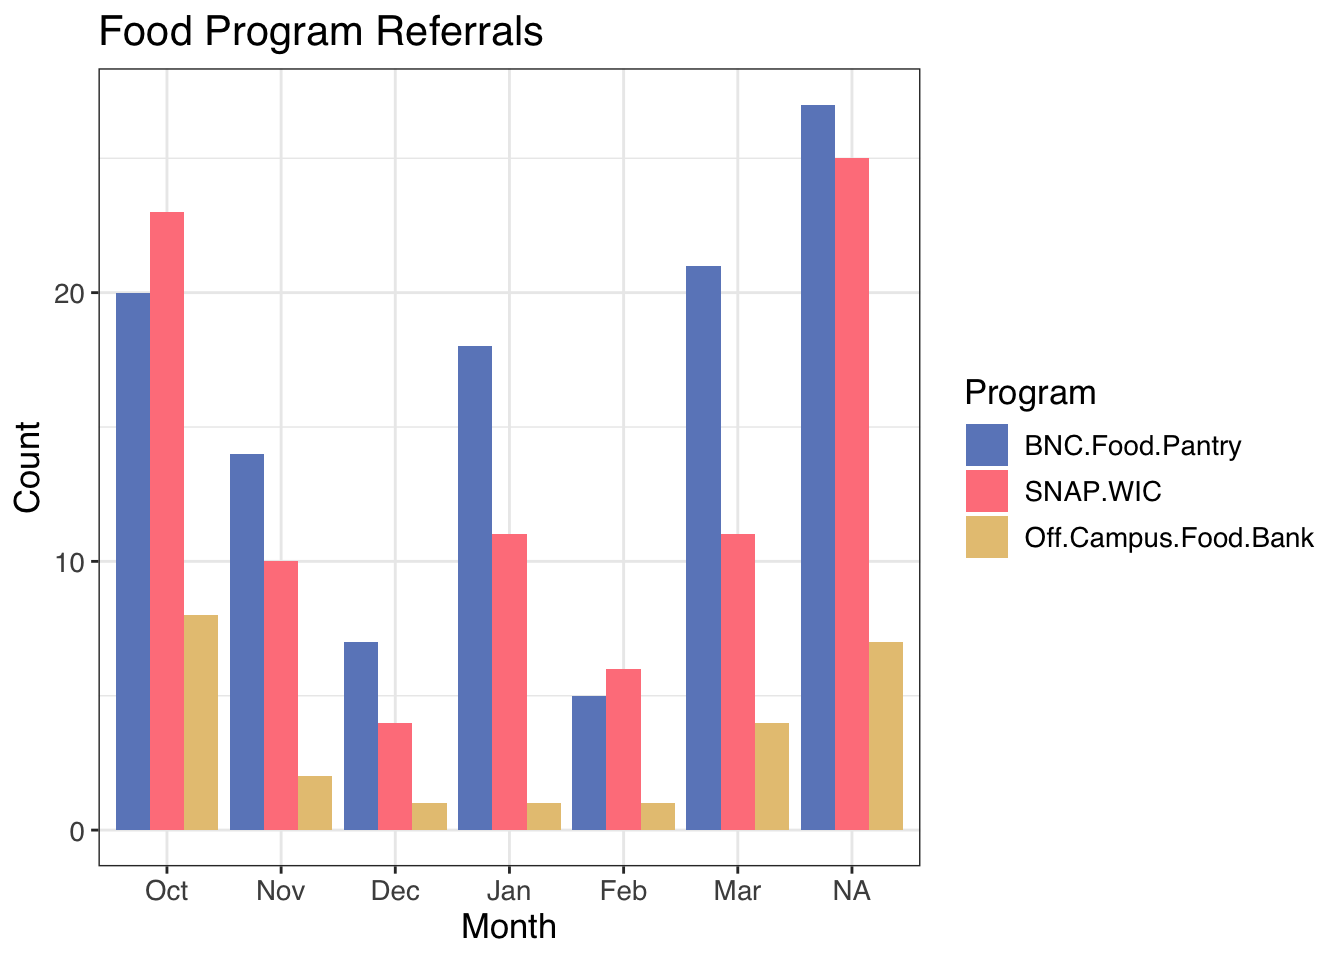
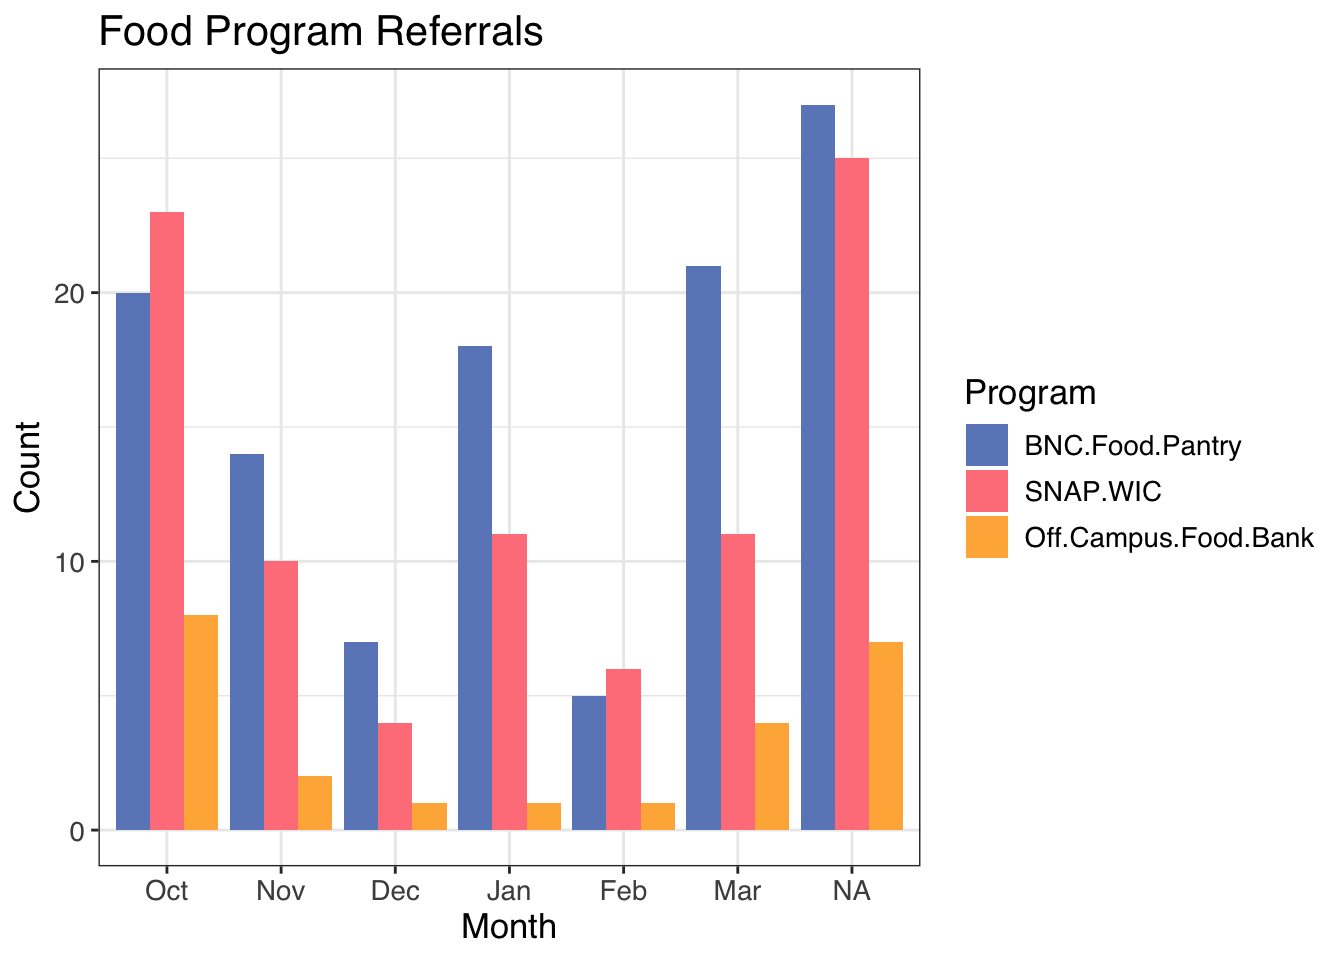
Update titles

diff --git a/PeerConvos.html b/PeerConvos.html
@@ -160,7 +160,7 @@ ul.task-list li input[type="checkbox"] {
 <div class="cell-output-display">
 <div>
 <figure class="figure">
-<p><img src="PeerConvos_files/figure-html/Three%20Main%20Topics-1.png" class="img-fluid figure-img" width="672"></p>
+<p><img src="PeerConvos_files/figure-html/Three%20Main%20Conversation%20Topics-1.png" class="img-fluid figure-img" width="672"></p>
 </figure>
 </div>
 </div>